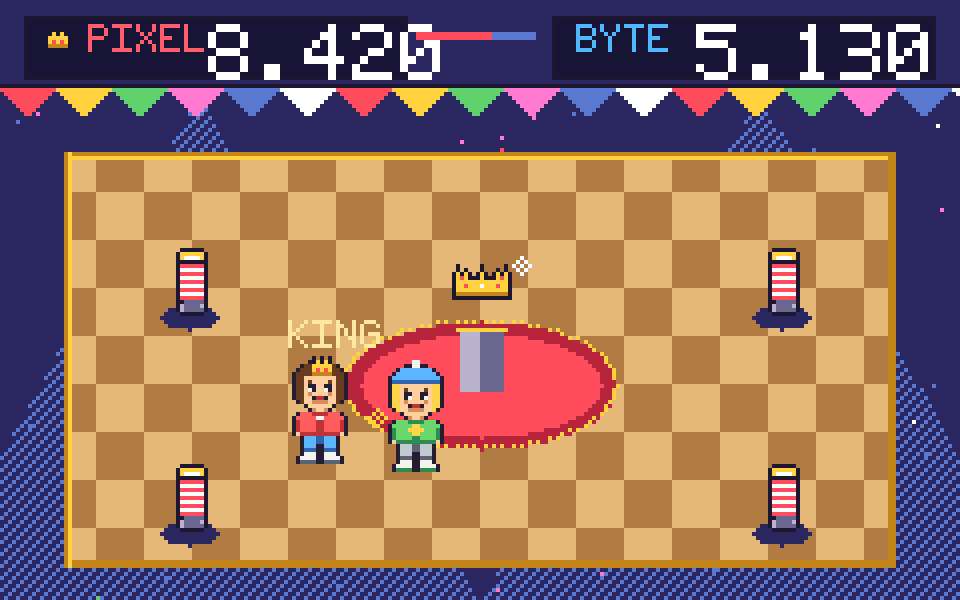
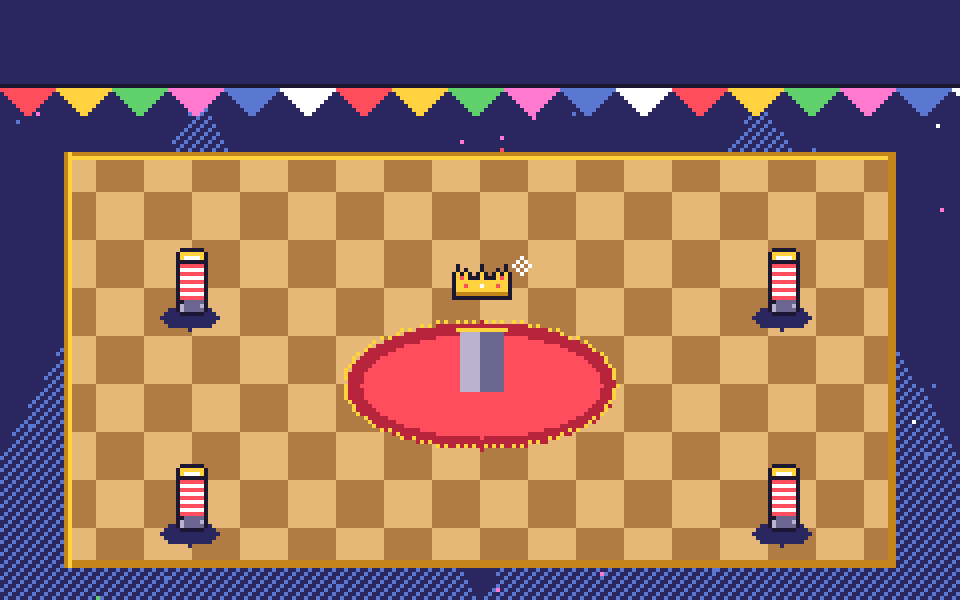
Crown Grab: bare stages for approval; compact Map 2 dais (no pyramid)
Map 2 redrawn as a small raised stone dais with short 2-step climbs on
each side and open floor to run, replacing the oversized staircase. Both
arena renders are now bare stages (fighters/scoreboard stripped) so the
layout reads clearly.

Claude-Session: https://claude.ai/code/session_01BmHu9ZjHHfJoGBLXT33Kpc

Changed region(s): [[0.0, 0.0, 1.0, 0.15], [0.2812, 0.51, 0.4688, 0.81]]

diff --git a/art/crown.py b/art/crown.py
@@ -217,28 +217,6 @@ def arena():
         disc(px, W, H, pcx + 3, pcy + len(PILLAR), 7, 3, col("u"))
         blit(img, PILLAR, pcx, pcy)
 
-    # ---- fighters: P1 is KING (crown + tag), P2 chasing & punching ----
-    p1x, p1y = cxc - 40, cyc + 20
-    p2x, p2y = cxc - 16, cyc + 22
-    fighter(img, "PIXEL", p1x, p1y)
-    crown_small(img, p1x, p1y - len(fgrid(C.PIXEL)) - 1)
-    fighter(img, "BYTE", p2x, p2y, flip=True)
-    star(img, (p1x + p2x) // 2 + 2, p1y - 12, "Y")          # punch spark
-    kt = pf.text("KING", 1, (255, 233, 160)); img.alpha_composite(kt, (p1x - 8, p1y - len(fgrid(C.PIXEL)) - 10))
-
-    # ---- scoreboard: live ms hold timers + bars ----
-    panel(img, 6, 4, 96, 16, "D"); panel(img, W - 102, 4, 96, 16, "D")
-    crown_small(img, 14, 7)
-    img.alpha_composite(pf.text("PIXEL", 1, (255, 93, 108)), (22, 6))
-    img.alpha_composite(pf.text("8.420", 2, (255, 255, 255)), (52, 6))
-    img.alpha_composite(pf.text("BYTE", 1, (79, 184, 255)), (W - 96, 6))
-    img.alpha_composite(pf.text("5.130", 2, (255, 255, 255)), (W - 66, 6))
-    # tug bar (who has held longer)
-    bx, by, bw = 104, 8, W - 210
-    for x in range(bx, bx + bw):
-        px[x, by] = col("R") if (x - bx) < bw * 0.62 else col("U")
-        px[x, by + 1] = col("R") if (x - bx) < bw * 0.62 else col("U")
-
     img.resize((W * SC, H * SC), Image.NEAREST).convert("RGB").save(os.path.join(OUT, "crown_arena.png"))
     print("wrote crown_arena.png")
 
@@ -287,53 +265,47 @@ def _stage(img, seed):
     return fx, fy, fw, fh
 
 def arena2():
-    """MAP 2 — blocked middle: a hand-drawn stone keep with a raised deck you can
-    only mount via a staircase on each side; the crown waits on top, so the chase
-    funnels up the stairs. Every block is a hand-authored tile, stamped into place."""
+    """MAP 2 — a compact raised stone dais in the middle (the blocked high ground)
+    with a short flight of steps on each side; the crown sits on top. Plenty of
+    open floor around it to run. Every block is a hand-authored tile, stamped in."""
     W, H, SC = 240, 150, 4
     img = Image.new("RGBA", (W, H), col("u")); px = img.load()
     fx, fy, fw, fh = _stage(img, 11)
     cxc = W // 2
-    # --- geometry (all multiples of the 8px tile) ---
-    deckL, deckR = cxc - 40, cxc + 40          # 80px-wide deck, x 80..160
-    surfY = 96                                  # top walking surface starts here
-    surfH = 8
-    floorBot = 136                              # platform base sits on the floor
-    steps = 5
-    # ground shadow the whole keep casts on the floor
-    for x in range(deckL - 44, deckR + 44):
-        for t in range(3): sp(px, W, H, x, floorBot + t, col("u"))
+    # --- compact central dais (all multiples of the 8px tile) ---
+    topL, topR = cxc - 36, cxc + 36     # 72px-wide top surface, x 84..156
+    topY = 70                            # flat walkable top of the dais
+    faceY = 86                           # front face starts here (16px tall)
+    faceBot = 102
+    steps = 2                            # short steps either side (not a pyramid)
+    # soft ground shadow under the dais
+    for x in range(topL - 20, topR + 20):
+        for t in range(2): sp(px, W, H, x, faceBot + t, col("u"))
 
-    # --- staircases (the only ways up): stepped stone columns + gold caps ---
-    for i in range(steps):                      # LEFT flight, climbing rightward
-        x0 = deckL - (i + 1) * 8
-        ty = surfY + i * 8
-        tile_rect(img, FACETILE, x0, ty, x0 + 8, floorBot)
+    # --- the dais: front face (masonry) then the flat top, with gold trim ---
+    tile_rect(img, FACETILE, topL, faceY, topR, faceBot, bond=True)
+    tile_rect(img, TOPTILE, topL, topY, topR, faceY)
+    for x in range(topL, topR):          # gold trim capping the top edge
+        sp(px, W, H, x, topY, col("Y")); sp(px, W, H, x, topY + 1, col("y"))
+    for y in range(topY, faceBot):       # gold corner posts
+        sp(px, W, H, topL, y, col("y")); sp(px, W, H, topR - 1, y, col("y"))
+
+    # --- short steps on each side (climb up onto the dais) ---
+    for k in range(steps):               # LEFT steps, adjacent step highest
+        x0 = topL - (k + 1) * 8
+        ty = faceY + k * 8
+        tile_rect(img, FACETILE, x0, ty, x0 + 8, faceBot)
         blit(img, STEPCAP, x0, ty)
-    for j in range(steps):                       # RIGHT flight, climbing leftward
-        x0 = deckR + j * 8
-        ty = surfY + j * 8
-        tile_rect(img, FACETILE, x0, ty, x0 + 8, floorBot)
+    for k in range(steps):               # RIGHT steps mirrored
+        x0 = topR + k * 8
+        ty = faceY + k * 8
+        tile_rect(img, FACETILE, x0, ty, x0 + 8, faceBot)
         blit(img, STEPCAP, x0, ty)
 
-    # --- the central keep: front face (masonry) then the deck surface on top ---
-    tile_rect(img, FACETILE, deckL, surfY + surfH, deckR, floorBot, bond=True)
-    tile_rect(img, TOPTILE, deckL, surfY, deckR, surfY + surfH)
-    for x in range(deckL, deckR):               # gold trim capping the deck edge
-        sp(px, W, H, x, surfY, col("Y")); sp(px, W, H, x, surfY + 1, col("y"))
+    # --- the crown waiting on top centre ---
+    blit(img, CROWN, cxc - len(CROWN[0]) // 2, topY + 2)
+    star(img, cxc + 11, topY + 2, "W")
 
-    # --- royal banner hung on the face, crown waiting on the deck ---
-    blit(img, BANNER, cxc - len(BANNER[0]) // 2, surfY + surfH + 4)
-    blit(img, CROWN, cxc - len(CROWN[0]) // 2, surfY - len(CROWN) - 1)
-    star(img, cxc + 11, surfY - len(CROWN) - 1, "W")
-
-    # --- fighters: KING up top, chaser climbing the right stairs ---
-    fighter(img, "PIXEL", cxc - 13, surfY)
-    crown_small(img, cxc - 13, surfY - len(fgrid(C.PIXEL)) - 1)
-    img.alpha_composite(pf.text("KING", 1, (255, 233, 160)), (cxc - 21, surfY - len(fgrid(C.PIXEL)) - 11))
-    fighter(img, "BYTE", deckR + 20, surfY + 16, flip=True)
-    star(img, deckR + 11, surfY + 8, "Y")
-    _scoreboard(img)
     img.resize((W * SC, H * SC), Image.NEAREST).convert("RGB").save(os.path.join(OUT, "crown_arena2.png"))
     print("wrote crown_arena2.png")
 
